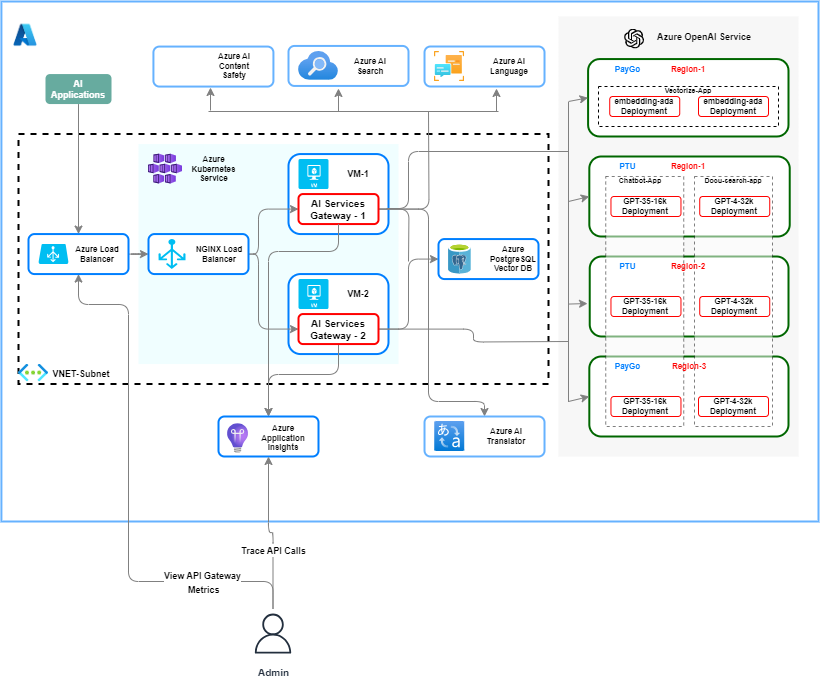
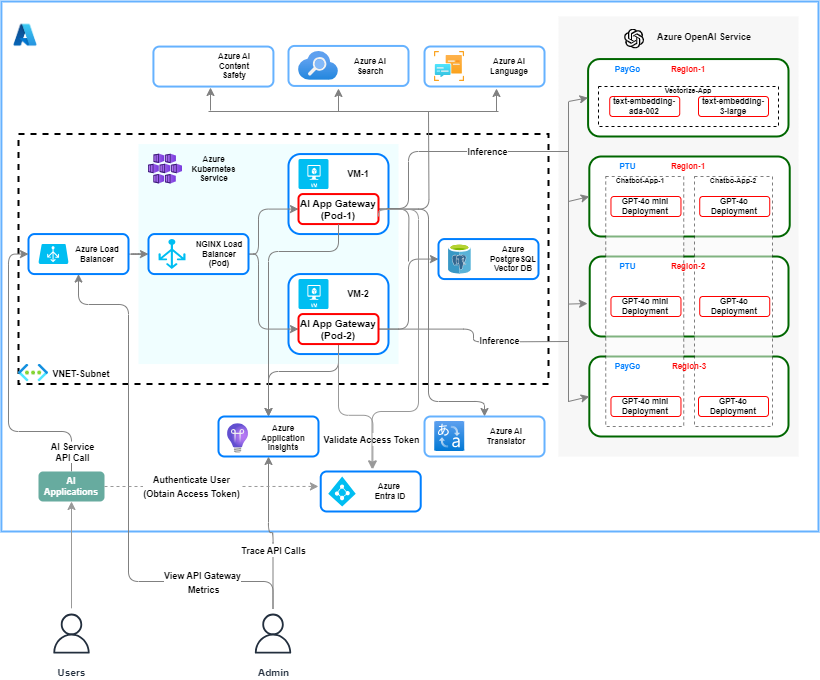
Updated architecture diagrams

diff --git a/README.md b/README.md
@@ -6,7 +6,7 @@ This *solution accelerator* is designed to deliver 80-90% of the core functional
 
 Recipe | Components | Functional Architecture (**)
 ------ | ---------- | ----------------------------
-***AI Information Assistant*** | 1. **Chatbot User Interface** <br> 2. **Semantic Caching** <br> 3. **State Management** <br> 4. **API Traffic Routing** <br> 5. Azure OpenAI Service <br> 6. Azure AI Search (RAG/OYD) <br> 7. **Prompt Persistence** <br> 8. **API Metrics Collection** | ![alt tag](./images/ai-chatbot-usecase-gh.PNG)
+***AI Information Assistant*** | 1. **Chatbot User Interface** <br> 2. **Semantic Cache** <br> 3. **State Manager** <br> 4. **Intelligent Router** <br> 5. Azure OpenAI Service <br> 6. Azure AI Search Service (RAG/OYD) <br> 7. **Message Logger (Chat History)** <br> 8. **API Metrics Collector** | ![alt tag](./images/ai-chatbot-usecase-gh.PNG)
 
 ** Components marked by green circles are out of box features.
 
@@ -20,7 +20,7 @@ Feature/Capability | Azure AI Service | Description
 **Streaming API Responses** | Azure Open AI Service (Chat Completions API only) | The AI Application Gateway fully supports the response *streaming* feature provided by Azure OpenAI Chat Completions API.  This function is seamlessly integrated with semantic caching, state management and traffic routing features.
 **Semantic Caching** | Azure OpenAI Service | This feature is seamlessly integrated into AI Application Gateway and can be used to cache OpenAI Service prompts and responses. Cache hits are evaluated based on semantic similarity and the configured algorithm. With semantic caching, runtime performance of LLM/AI applications can be improved by up to 40%. This solution leverages the vectorization and semantic search features supported by the widely popular *PostgreSQL* open source database.
 **Conversational State Management** | Azure OpenAI Service (Chat Completion API only) | AI Chatbots must maintain context during end user sessions so they can reference previous user inputs, ensuring coherent and contextually relevant conversations.  This feature manages the conversational state and can effortlessly scale to support anywhere from 10 to hundreds of concurrent user sessions for multiple AI applications simultaneously. Additionally, it can function independently or in tandem with the *Semantic Caching* feature to enhance performance.
-**Prompt Persistence (Chat History)** | Azure OpenAI Service | This optional feature can be used to persist OpenAI Service *Prompts* (inputs) and *Completions* (responses) in a relational database table. With this feature, customers can analyze prompts and accordingly adjust the similarity distance for the chosen vector search algorithm to maximize performance (increase throughput).  This feature can also be used to introspect the prompt and completion tokens associated with a particular API request (Request ID) and troubleshoot content filteration issues quickly. The gateway currently supports PostgreSQL database as the persistence provider.
+**Message Persistence (Chat History)** | Azure OpenAI Service | This optional feature can be used to persist OpenAI Service *Prompts* (inputs) and *Completions* (responses) in a relational database table. With this feature, customers can analyze prompts and accordingly adjust the similarity distance for the chosen vector search algorithm to maximize performance (increase throughput).  This feature can also be used to introspect the prompt and completion tokens associated with a particular API request (Request ID) and troubleshoot content filteration issues quickly. The gateway currently supports PostgreSQL database as the persistence provider.
 **Dynamic Server Configuration** | All | The Gateway exposes a separate reconfig (/reconfig) endpoint to allow dynamic reconfiguration of backend endpoints. Backend endpoints can be reconfigured anytime even when the server is running thereby limiting AI application downtime.
 **API Metrics Collection** | All | The Gateway continously collects backend API metrics and exposes them thru the metrics (/ metrics) endpoint.  Users can analyze the throughput and latency metrics and reconfigure the gateway's backend endpoint priority list to effectively route/shift the AI Application workload to the desired backend endpoints based on available and consumed capacity.
 **Observability and Traceability** | All | The AI Application Gateway is instrumented with Azure Application Insights SDK. When this setting is enabled, detailed telemetry information on Azure OpenAI and dependent services is collected and sent to Azure Monitor.
